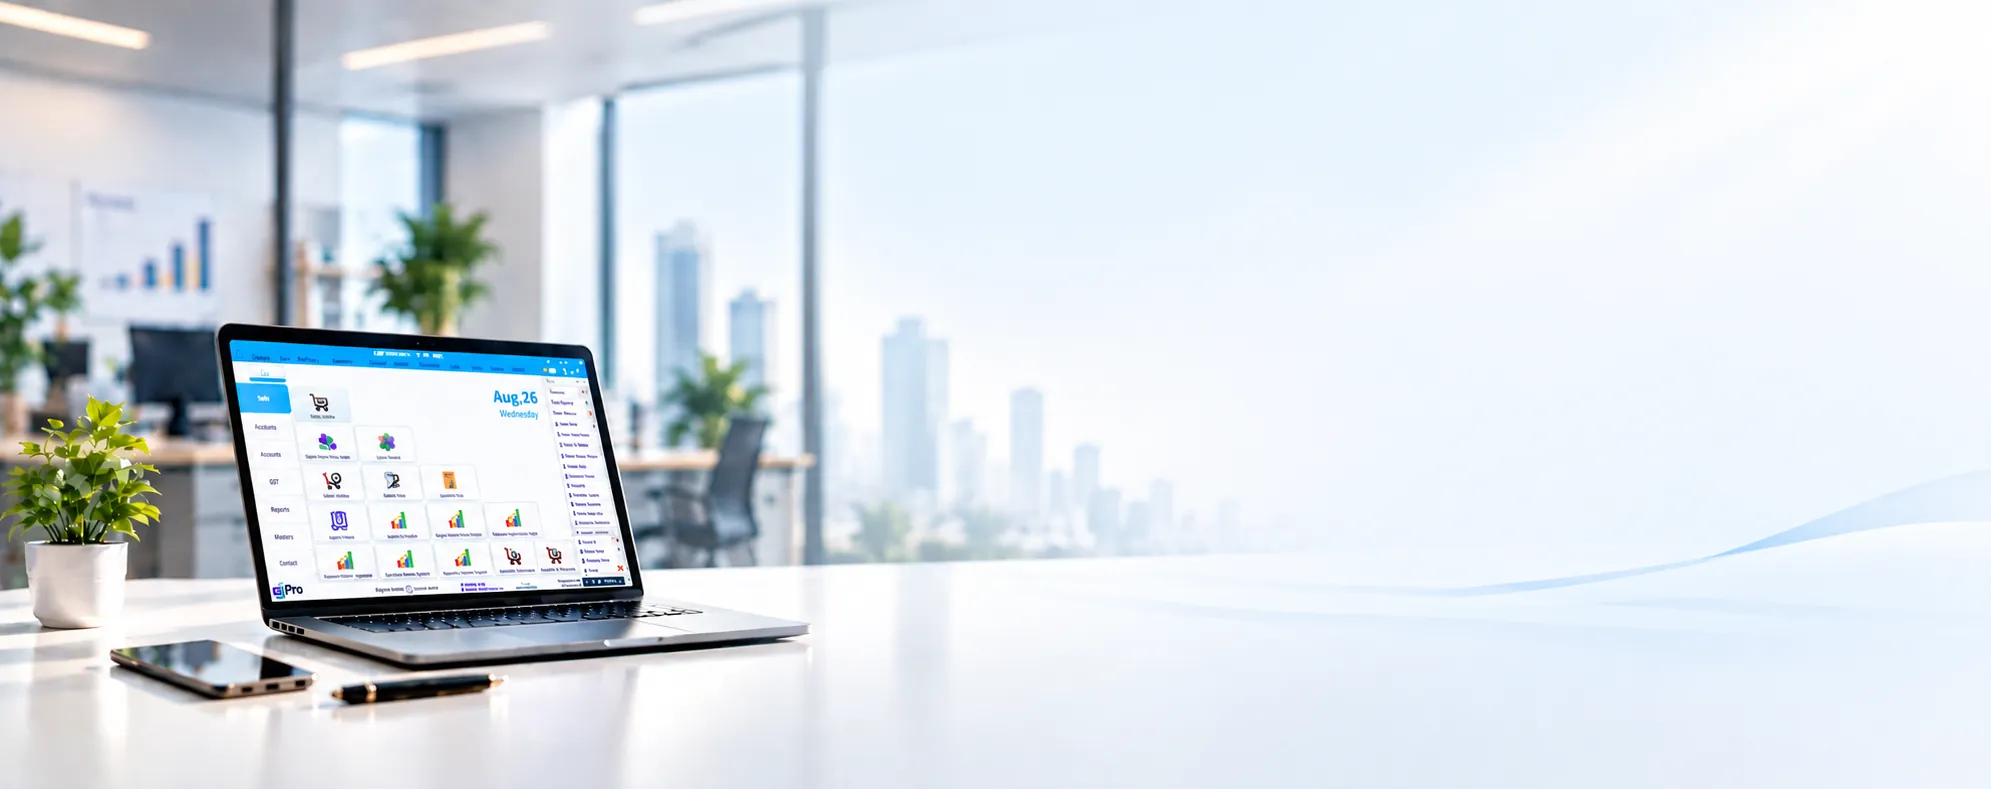
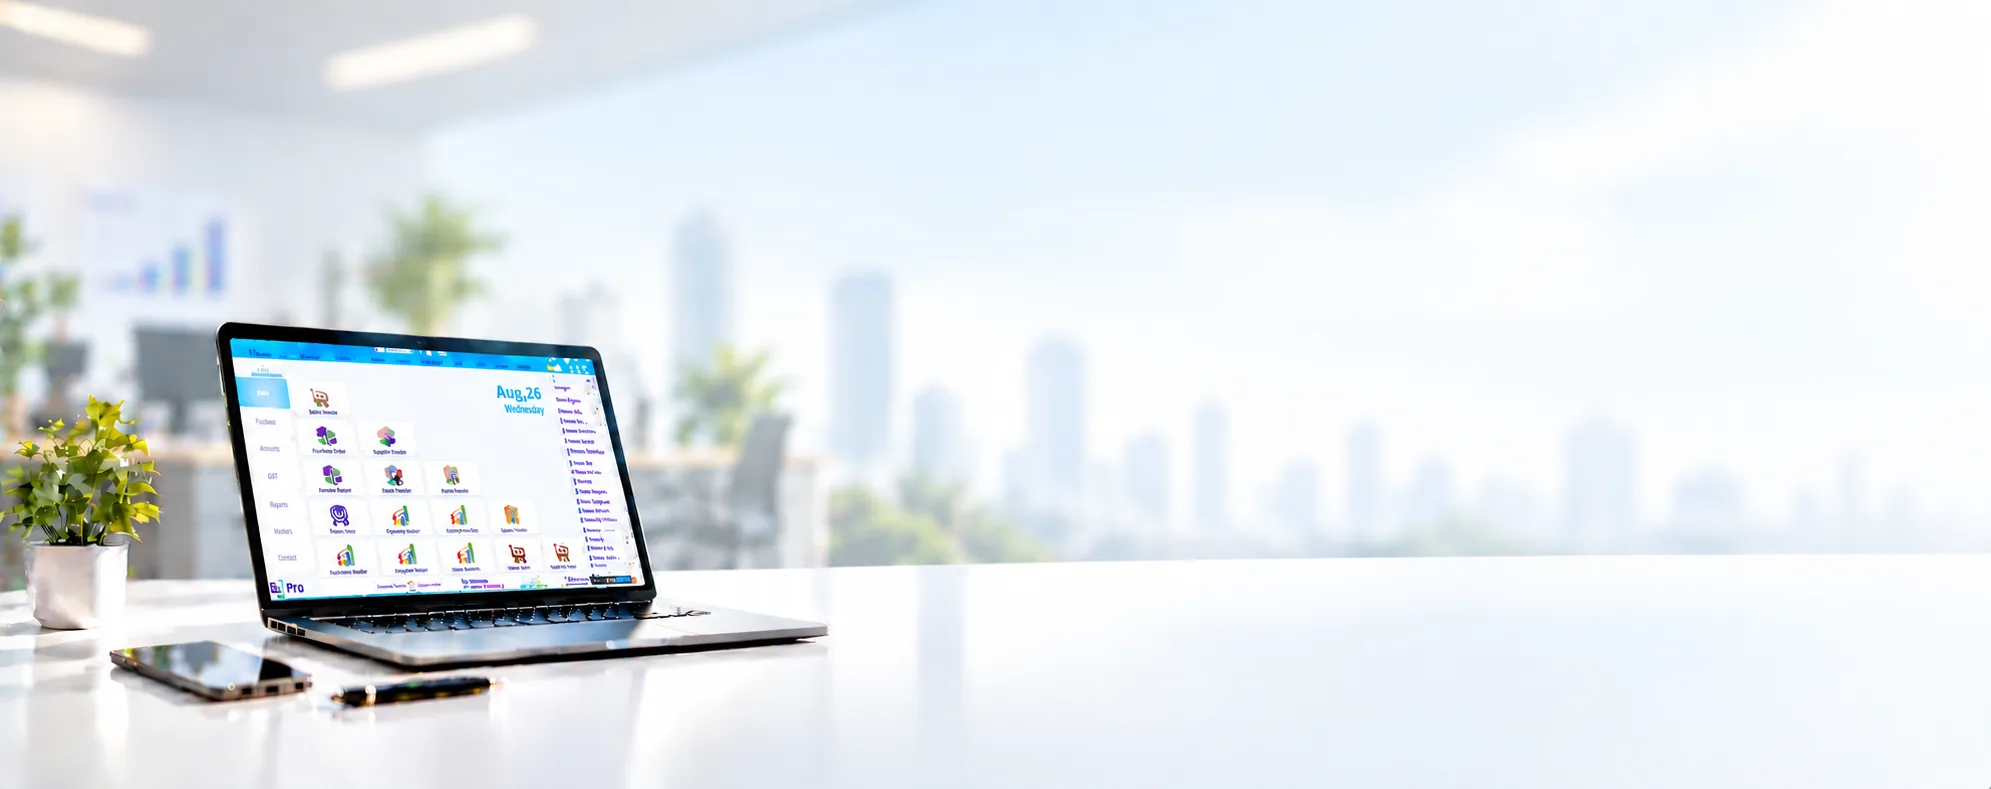
Products page corrections completed

diff --git a/src/styles/Products.css b/src/styles/Products.css
@@ -201,13 +201,23 @@
   margin: 0 0 40px;
 }
 
-.demander-hero-content .demander-support-line {
+/* .demander-hero-content .demander-support-line {
   font-family: "Caveat", cursive;
   font-size: 34px;
   font-weight: 500;
   letter-spacing: 0;
   color: #b85c0a;
   margin-top: 60px ;
+  margin-left: 60px;
+} */
+
+.demander-hero-content .demander-support-line {
+  font-family: "Kalam", cursive;
+  font-size: 32px;
+  font-weight: 500;
+  letter-spacing: 0.3px;
+  color: #b85c0a;
+  margin-top: 60px;
   margin-left: 60px;
 }
 
@@ -909,7 +919,7 @@
 .demander-hero-logo {
   position: absolute;
   top: -42px;
-  width: 300px;
+  width: 230px;
   height: auto;
   left: calc(88vw - 150px - 300px);
 }
@@ -936,10 +946,10 @@
 .products-page > section:nth-of-type(2) { --eyebrow-color: #b85c0a; }
 .products-page > section:nth-of-type(4) { --eyebrow-color: #1f7a52; }
 
-/* Animated "in progress" dots: 1 dot, then 2, then 3, then repeat */
+/* Animated "in progress" dots: none, then 1, then 2, then 3, then repeat */
 .loading-dots > span {
   opacity: 0;
-  animation: loading-dot 1.8s steps(1, end) infinite;
+  animation: loading-dot 2.4s steps(1, end) infinite;
 }
 
 .loading-dots > span:nth-child(1) { animation-name: loading-dot-1; }
@@ -947,19 +957,20 @@
 .loading-dots > span:nth-child(3) { animation-name: loading-dot-3; }
 
 @keyframes loading-dot-1 {
-  0%   { opacity: 1; }
+  0%   { opacity: 0; }
+  25%  { opacity: 1; }
   100% { opacity: 1; }
 }
 
 @keyframes loading-dot-2 {
   0%   { opacity: 0; }
-  33%  { opacity: 1; }
+  50%  { opacity: 1; }
   100% { opacity: 1; }
 }
 
 @keyframes loading-dot-3 {
   0%   { opacity: 0; }
-  66%  { opacity: 1; }
+  75%  { opacity: 1; }
   100% { opacity: 1; }
 }
 

diff --git a/src/index.css b/src/index.css
@@ -1,5 +1,7 @@
 @import url("https://fonts.googleapis.com/css2?family=Inter:wght@300;400;500;600;700&display=swap");
 
+
+@import url("https://fonts.googleapis.com/css2?family=Kalam:wght@400;500;700&display=swap");
 :root {
   /* Shared typography tokens for section titles and descriptions */
   --font-family-base: "Inter", -apple-system, BlinkMacSystemFont, "Segoe UI", Roboto, sans-serif;
